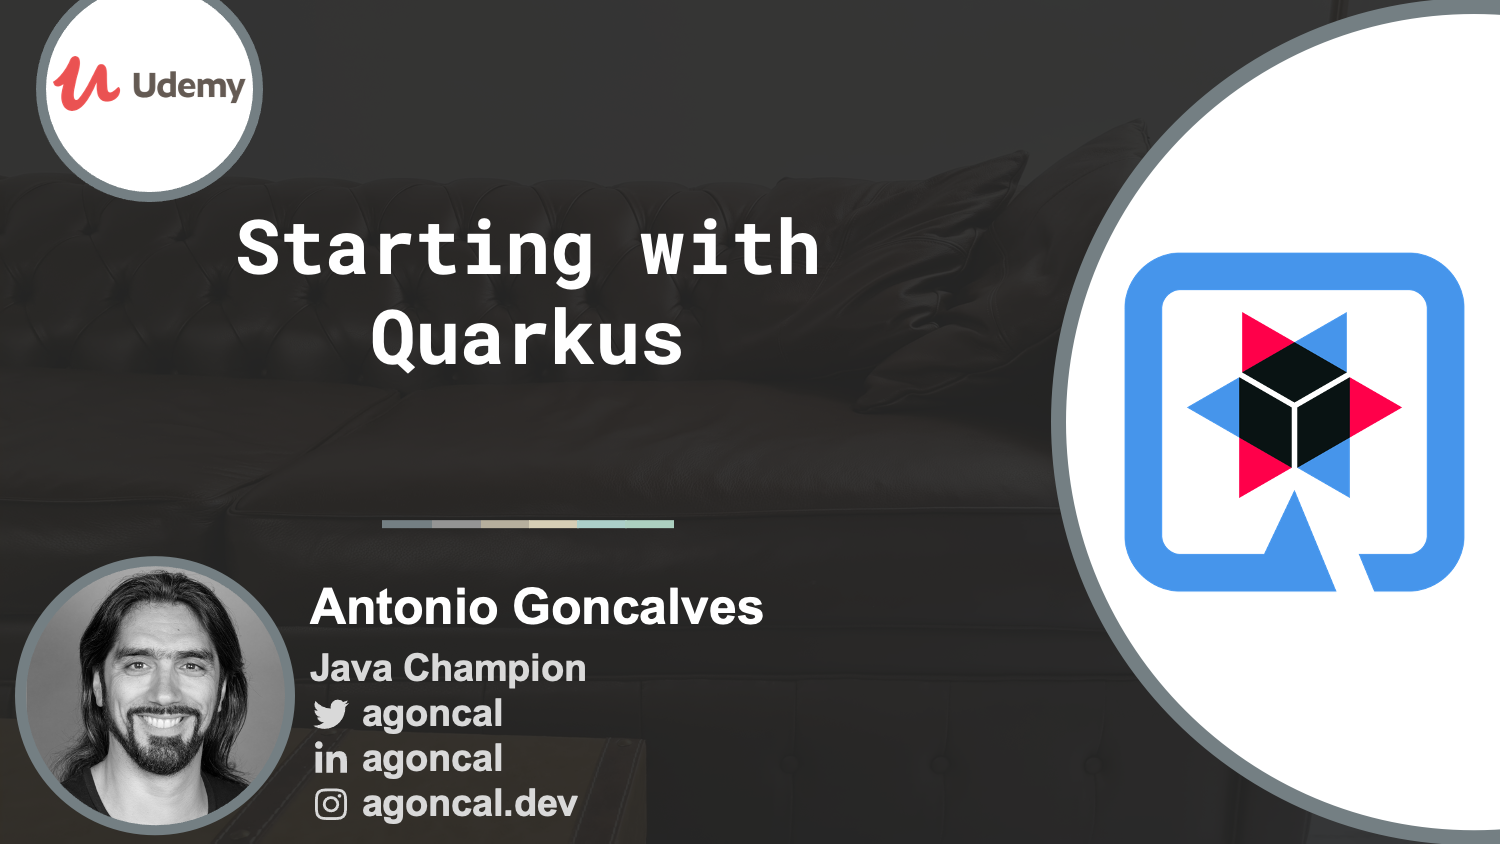
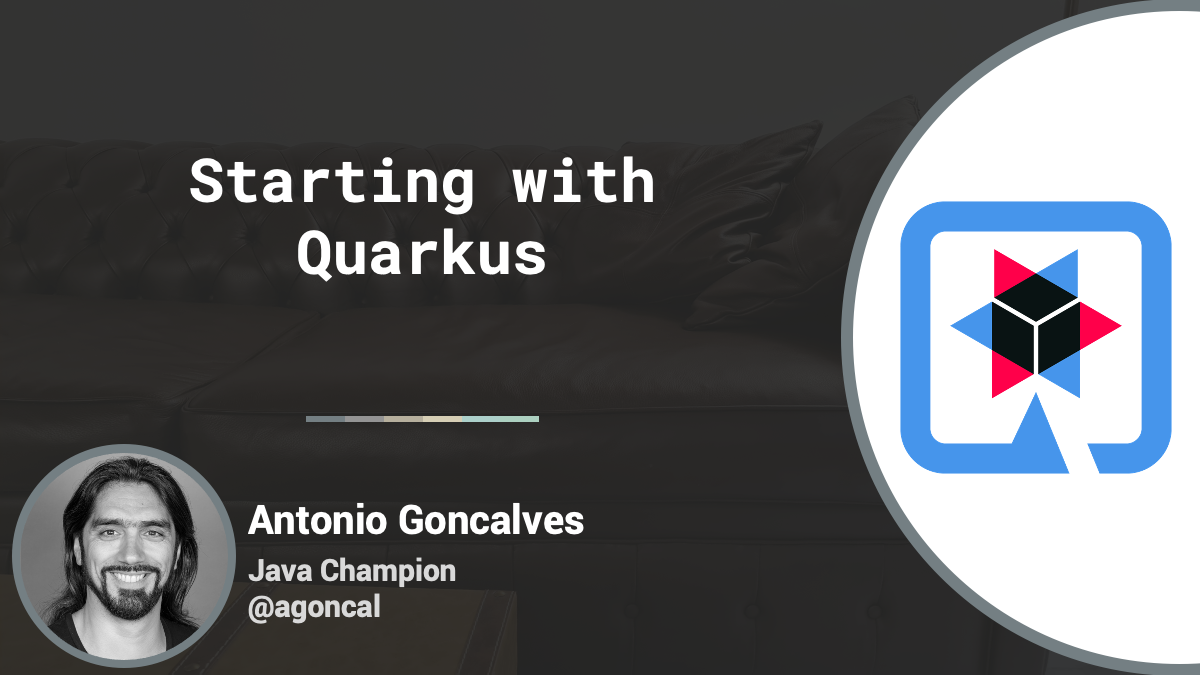
Updating cover

Changed region(s): [[0.0, 0.0, 0.555, 0.4356], [0.185, 0.6844, 0.5242, 0.9956]]

diff --git a/README.md b/README.md
@@ -1,6 +1,6 @@
 # AGoncal Course: Starting with Quarkus
 
-Code of my [Starting with Quarkus](https://www.udemy.com/course/quarkus-starting-with-quarkus/?referralCode=326B47EE8A3032346159) course.
+Code of my [Starting with Quarkus](https://agoncal.teachable.com/p/course-starting-with-quarkus) course.
 
 ![Travis](https://travis-ci.org/agoncal/agoncal-course-quarkus-starting.svg?branch=master)
 
@@ -29,4 +29,4 @@ The different steps you'll go through are:
 At the end of the course you'll get a good understanding of Quarkus.
 You will be able to bootstrap, develop, package and execute a REST application, but most important, take Quarkus to your next project.
 
-![Starting with Quarkus](https://raw.githubusercontent.com/agoncal/agoncal-course-quarkus-starting/master/cover.png)
+[![Starting with Quarkus](https://raw.githubusercontent.com/agoncal/agoncal-course-quarkus-starting/master/cover.png)](https://agoncal.teachable.com/p/course-starting-with-quarkus)
